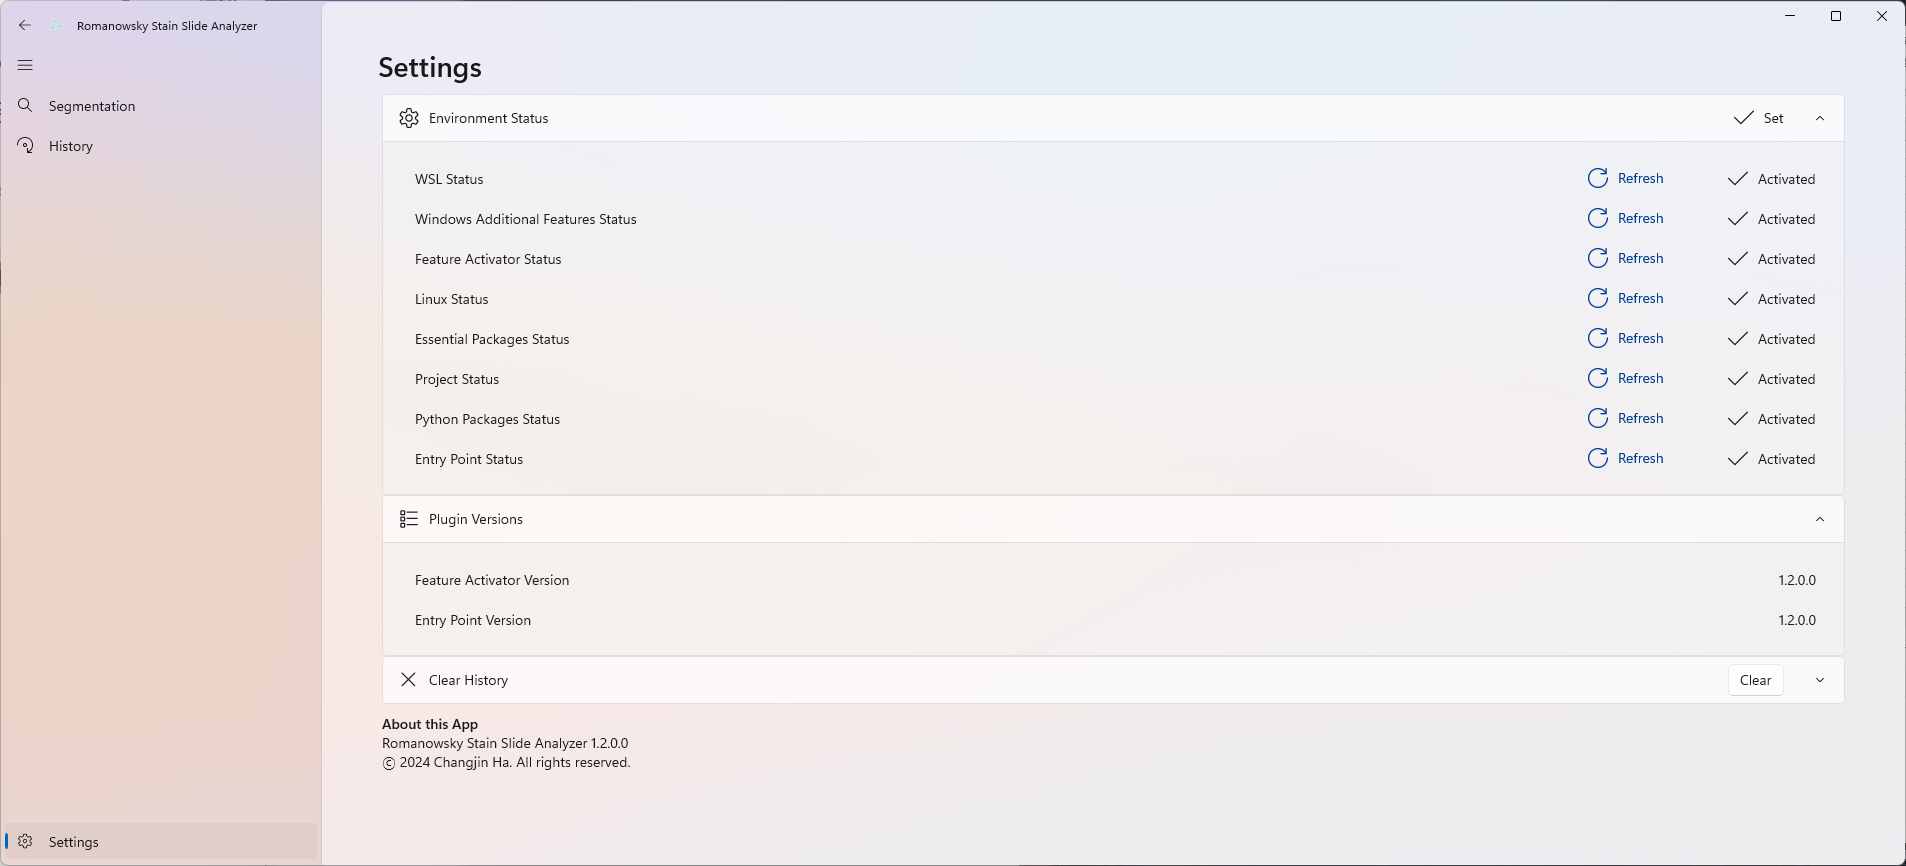
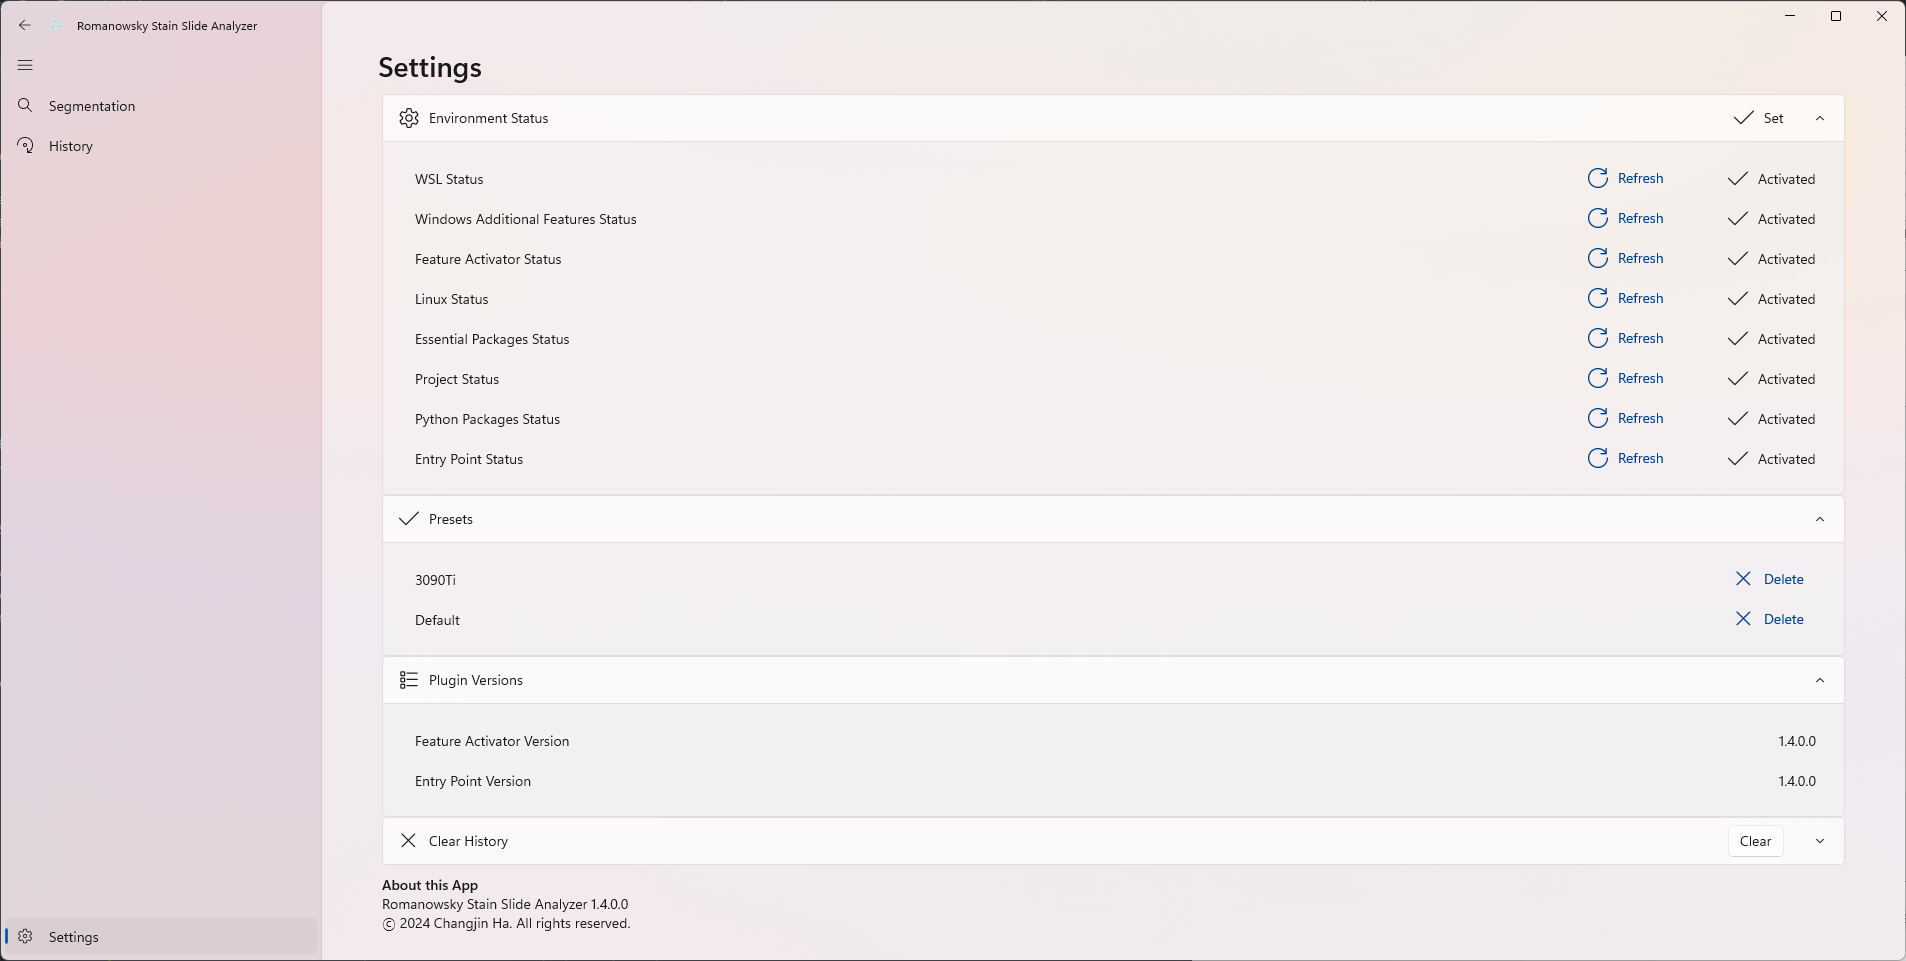
Docs: Update ReadMe

diff --git a/FeatureInstaller/obj/Debug/net8.0-windows10.0.20348.0/FeatureInstaller.AssemblyInfo.cs b/FeatureInstaller/obj/Debug/net8.0-windows10.0.20348.0/FeatureInstaller.AssemblyInfo.cs
@@ -14,7 +14,7 @@ using System.Reflection;
 [assembly: System.Reflection.AssemblyCompanyAttribute("FeatureInstaller")]
 [assembly: System.Reflection.AssemblyConfigurationAttribute("Debug")]
 [assembly: System.Reflection.AssemblyFileVersionAttribute("1.0.0.0")]
-[assembly: System.Reflection.AssemblyInformationalVersionAttribute("1.0.0+418d0f82e06763d361a28c54f1ab9f2a8ed80df8")]
+[assembly: System.Reflection.AssemblyInformationalVersionAttribute("1.0.0+f9cc38db322d3a477f0890cee7e34c10f7a7837c")]
 [assembly: System.Reflection.AssemblyProductAttribute("FeatureInstaller")]
 [assembly: System.Reflection.AssemblyTitleAttribute("FeatureInstaller")]
 [assembly: System.Reflection.AssemblyVersionAttribute("1.0.0.0")]

diff --git a/ReadMe.md b/ReadMe.md
@@ -6,12 +6,24 @@
 ⓒ 2024 Changjin Ha. All Rights Reserved.<br>
 ---
 ## Segmentation<br>
-<img src="./Docs/Images/img_segmentation.png"><br>
-> Just load the image, name the file, and segmentation is complete.<br>
+<img src="./Docs/Images/img_home_1.png"><br>
+> Just load the images, name the file, and segmentation is complete.<br>
+
+<img src="./Docs/Images/img_home_2.png"><br>
+> You can select GPU to segment.<br>
+
+<img src="./Docs/Images/img_home_3.png"><br>
+> Also, you can use GPU Parallel for use multiple GPUs.<br>
+
+<img src="./Docs/Images/img_home_4.png"><br>
+> And you can choose model to use.<br>
 
 ### Customize Parameters<br>
 <img src="./Docs/Images/img_customize_Parameters.png"><br>
 > If you proceed with Automatic Segmentation, you can also modify SAM parameters.<br>
+
+<img src="./Docs/Images/img_customize_Parameters_2.png"><br>
+> You can also save presets and use them again later.<br>
 
 ### Select Points<br>
 <img src="./Docs/Images/img_selectPoints.png"><br>
@@ -32,6 +44,10 @@
 ## History<br>
 <img src="./Docs/Images/img_history.png"><br>
 > A strong assistant that not only checks and saves past results, but also replaces and exports labeling data, and analyzes and saves bounding boxes.<br>
+
+## Image Viewer<br>
+<img src="./Docs/Images/img_imageViewer.png"><br>
+> A simple yet powerful tool to view, zoom, rotate and save images.<br>
 
 ## Analyze<br>
 <img src="./Docs/Images/img_analyze.png"><br>
@@ -66,6 +82,43 @@
 
 ## Release Note<br>
 > Here are the release notes for each version of Romanowsky Stain Slide Analyzer for Windows.<br>
+
+- ### Romanowsky Stain Slide Analyzer 1.4.0.0 Release Note
+> #### Framework<br>
+> - Saving a single file now displays the File Save Dialog instead of the Folder Picker, allowing you to customize the file's name and extension.<br>
+
+> #### Segmentation<br>
+> - Newly designed HomeView.<br>
+> - You can now add files by dragging.<br>
+> - You can now segment multiple images.<br>
+> - You can now choose which GPU to use for inference.<br>
+> - Parallel GPU option is now available.<br>
+> - Shortcuts have been applied to some functions.<br>
+> - The ability to cancel segmentation is now available.<br>
+> - You can now apply the currently set options to all files.<br>
+> - Model Selection is now available.<br>
+
+> #### Customize Parameters<br>
+> - Parameter Preset is now available.<br>
+> - Number Box is now available.<br>
+
+> #### History<br>
+> - The History list is now displayed by file name.<br>
+> - Shortcuts have been applied to some functions and menus.<br>
+> - Image Viewer is now available.<br>
+> - Calendar Date Picker is now available.<br>
+
+> #### Labeling<br>
+> - Now you can check the mask and bounding box at the same time.<br>
+> - Shortcuts have been applied to some functions.<br>
+> - Fixed the issue where Bounding Box indexes were not displayed completely.<br>
+
+> #### Analyze<br>
+> - You can now check mask data and bounding box data at the same time.<br>
+> - Shortcuts have been applied to some functions.<br>
+
+> #### Settings<br>
+> - You can now delete the Preset.<br>
 
 - ### Romanowsky Stain Slide Analyzer 1.3.0.0 Release Note
 > #### Segmentation<br>
